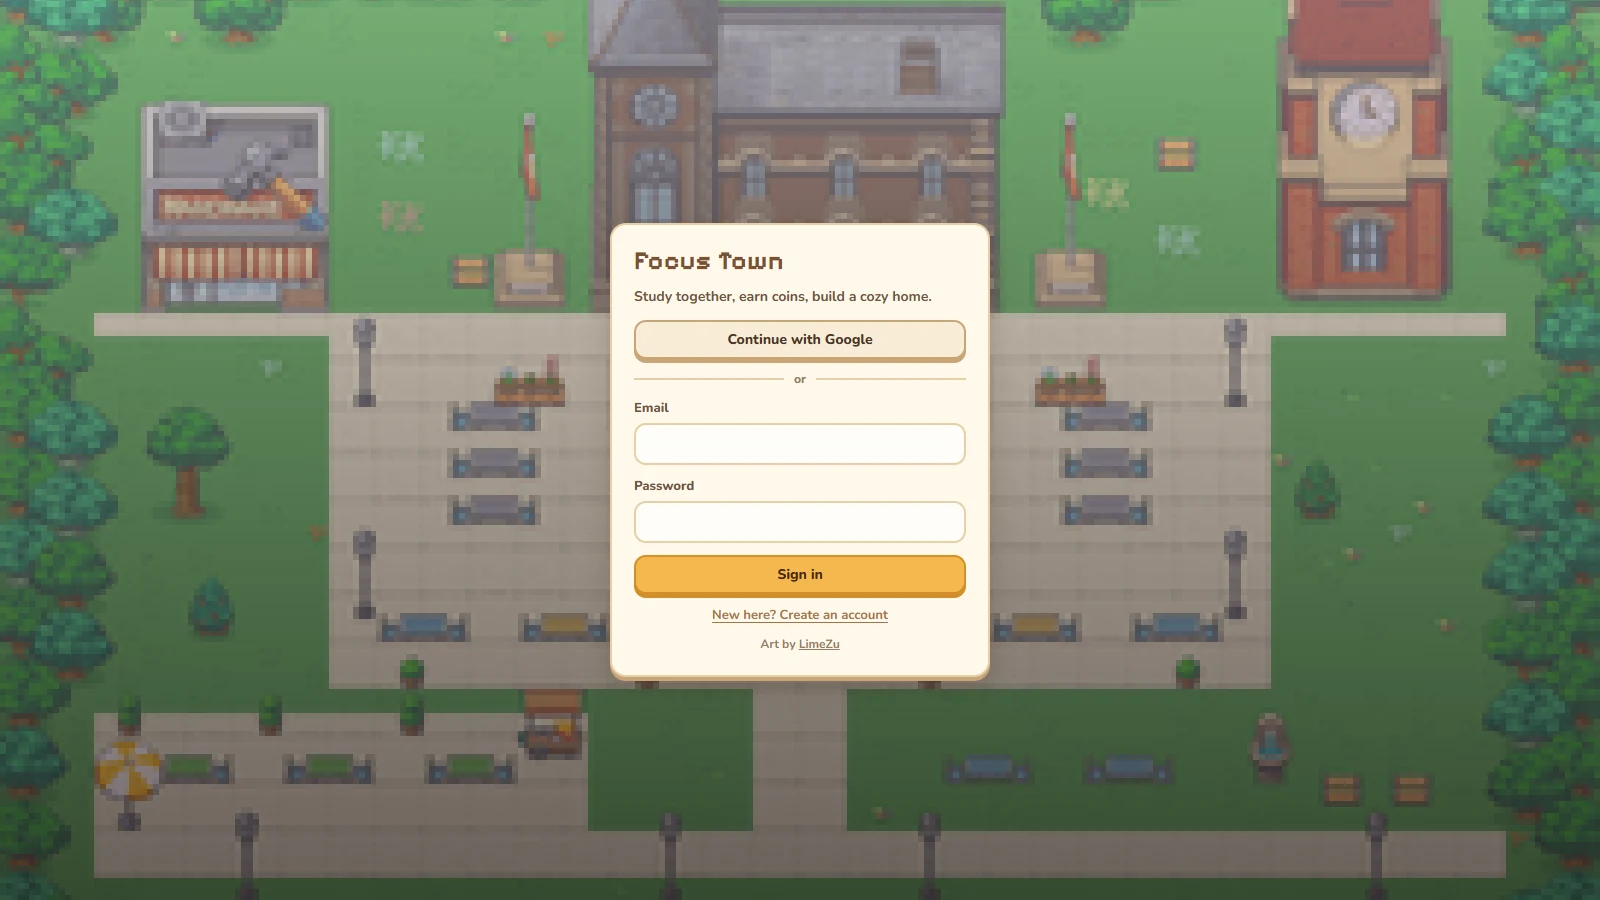
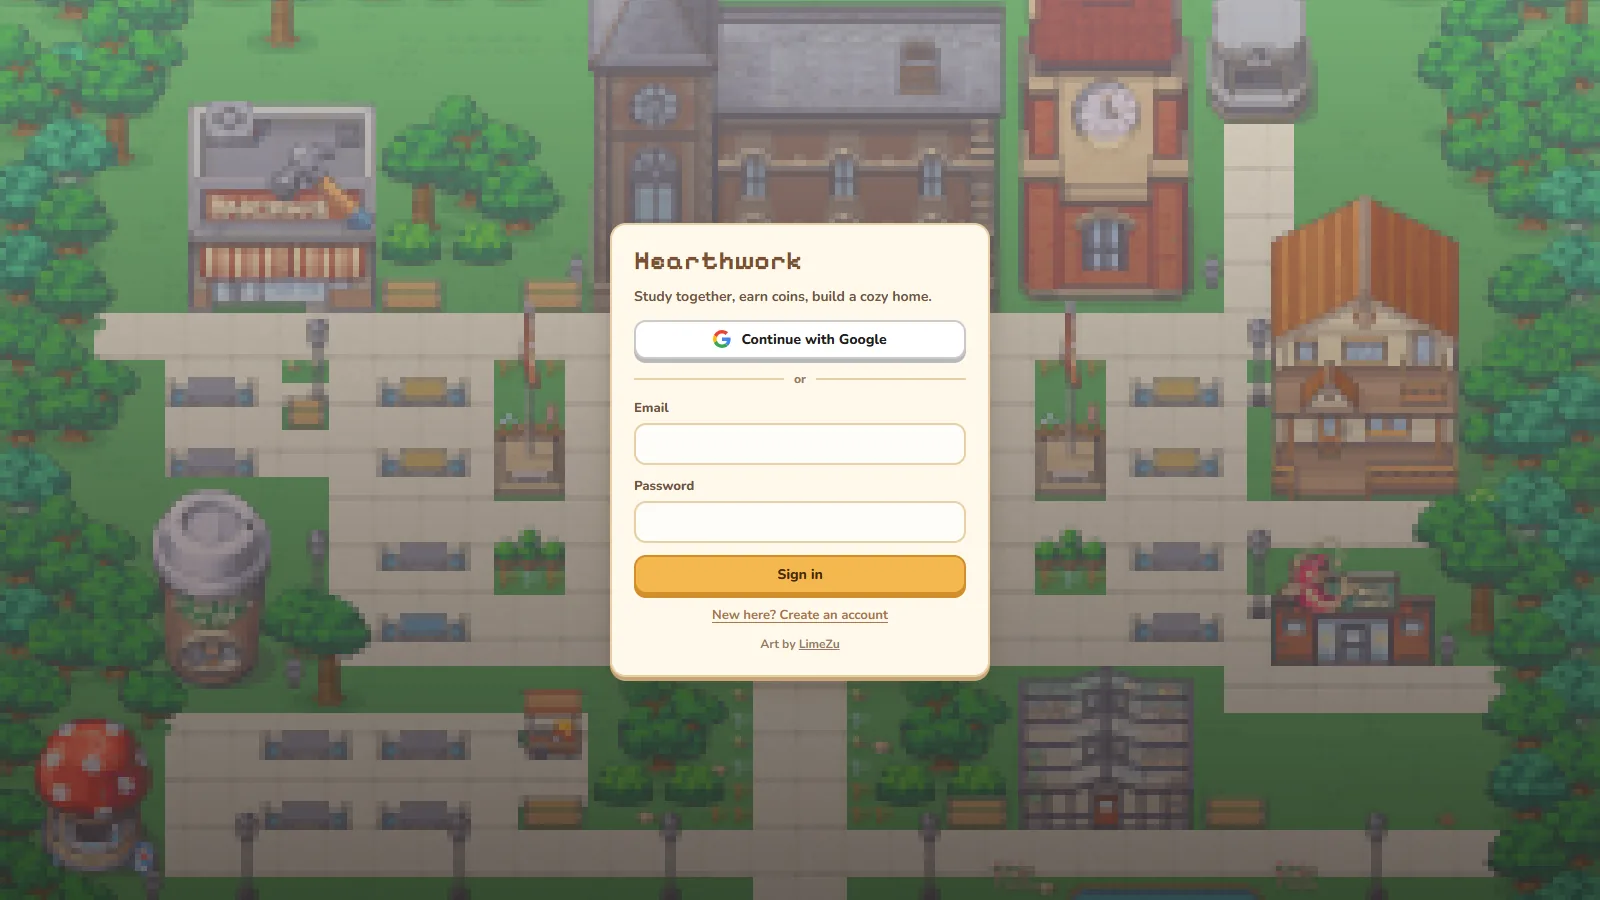
Fresh README screenshots of the current town; repo links point to Hearthwork
Re-take every README image against the current game: the redesigned town, the Hearthwork sign-in
screen, the level-3 home, the yard, the world map, the shop, stats, widgets, the character
creator and the Town Builder, plus a new home-to-town travel animation. Captions match what the
pictures show now. The repository is now AnasSAV/Hearthwork, so the badge, clone command,
package.json and the issue template link there.

diff --git a/README.md b/README.md
@@ -7,7 +7,7 @@
 Sit down at a café table next to other people, start a Pomodoro, and every minute you actually
 spend focused turns into coins for furniture, a garden and a bigger house.
 
-[![CI](https://github.com/AnasSAV/Focus-Town/actions/workflows/ci.yml/badge.svg)](https://github.com/AnasSAV/Focus-Town/actions/workflows/ci.yml)
+[![CI](https://github.com/AnasSAV/Hearthwork/actions/workflows/ci.yml/badge.svg)](https://github.com/AnasSAV/Hearthwork/actions/workflows/ci.yml)
 ![TypeScript](https://img.shields.io/badge/TypeScript-6.0-3178c6?logo=typescript&logoColor=white)
 ![Phaser](https://img.shields.io/badge/Phaser-4-8a4baf)
 ![React](https://img.shields.io/badge/React-19-61dafb?logo=react&logoColor=black)
@@ -94,8 +94,8 @@ spend focused turns into coins for furniture, a garden and a bigger house.
 
 <table>
   <tr>
-    <td width="50%"><img src="docs/images/focus.webp" alt="Focusing at a café table: the session ring, group table timer and widgets"><br><sub><b>Focus mode.</b> The verified timer, a group table and your widgets; the rest of the interface fades back.</sub></td>
-    <td width="50%"><img src="docs/images/home.webp" alt="A decorated level-2 home with a bed, bookshelves, a piano and a study desk"><br><sub><b>Your home.</b> Furniture bought with focus coins, placed with the in-game editor.</sub></td>
+    <td width="50%"><img src="docs/images/focus.webp" alt="Focusing at a study table among other players: the session ring and widgets"><br><sub><b>Focus mode.</b> The verified timer, the people focusing around you and your widgets; the rest of the interface fades back.</sub></td>
+    <td width="50%"><img src="docs/images/home.webp" alt="A decorated level-3 home with two rooms: beds, bookshelves, a piano and study desks"><br><sub><b>Your home.</b> Furniture bought with focus coins, placed with the in-game editor; level 3 adds a second room.</sub></td>
   </tr>
   <tr>
     <td><img src="docs/images/yard.webp" alt="The front yard with a fountain, trees, flowers, lamps and a garden table"><br><sub><b>The yard.</b> Gardens are decorated the same way; the signpost leads to town.</sub></td>
@@ -259,8 +259,8 @@ More diagrams (rooms, data model, security model) are in
 ### Run it locally
 
 ```bash
-git clone https://github.com/AnasSAV/Focus-Town.git
-cd Focus-Town
+git clone https://github.com/AnasSAV/Hearthwork.git
+cd Hearthwork
 npm install
 supabase start      # Postgres, Auth and the REST API in Docker
 ```
